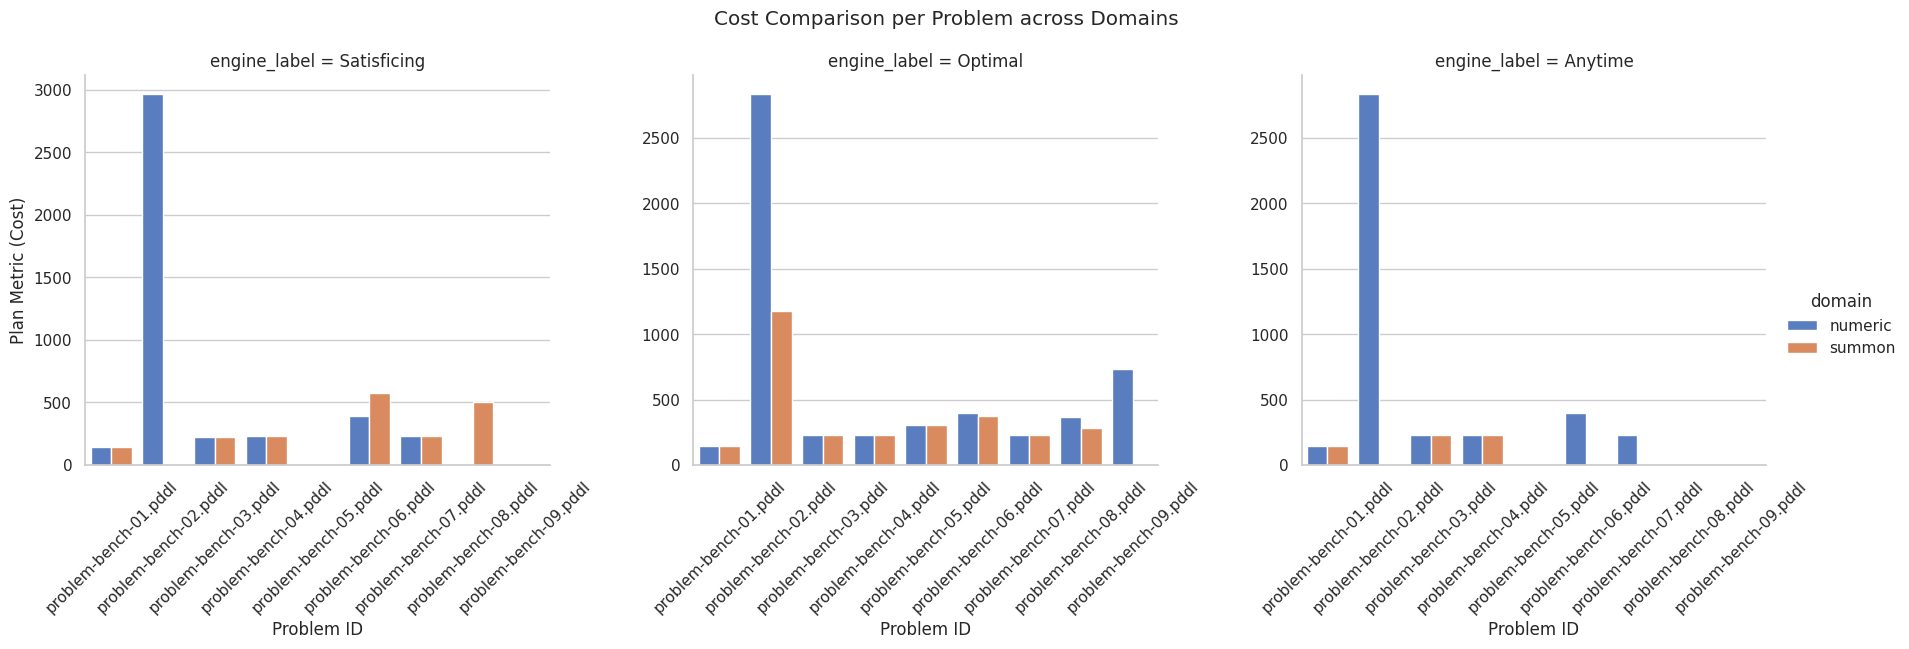
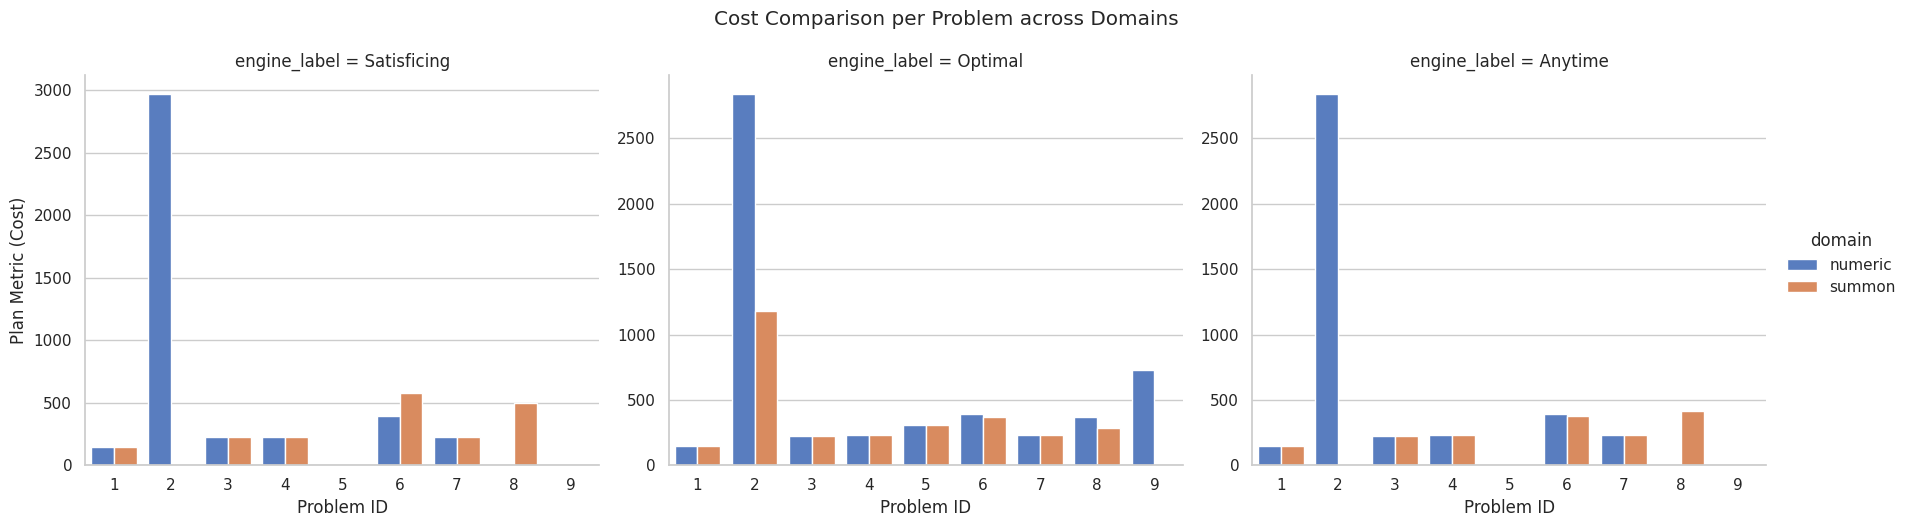
Enhance plots with problem labels and timeout handling
Added problem ID labels to scatter plots for plan quality and search effort. Improved data preprocessing to include TIMEOUT status for anytime planners, filtering out entries without a plan. Updated plots accordingly.

diff --git a/enhsp-plots.py b/enhsp-plots.py
@@ -30,7 +30,13 @@ def load_and_preprocess_data(numeric_file, summon_file):
         'PlanGenerationResultStatus.SOLVED_SATISFICING', 
         'PlanGenerationResultStatus.SOLVED_OPTIMALLY'
     ]
+    # also include timeout for anytime planners
+    solved_statuses.append('PlanGenerationResultStatus.TIMEOUT')
     df_solved = df[df['status'].isin(solved_statuses)].copy()
+    # now for all TIMEOUT entries, we need to ensure they have a plan, keep only those
+    df_solved = df_solved[~((df_solved['status'] == 'PlanGenerationResultStatus.TIMEOUT') & (df_solved['plan_length'] == 0))]
+    #replace problem names with shorter versions (just the number)
+    df_solved['problem'] = df_solved['problem'].str.extract('(\d+)').astype(int)
     
     return df, df_solved
 
@@ -60,10 +66,13 @@ def generate_plots(df, df_solved):
     plt.savefig('plots/cactus_runtime.png', bbox_inches='tight')
     plt.close()
 
-    # 3. Plan Quality Scatter Plot
-    df_pivot_metric = df_solved.pivot_table(index=['problem', 'engine_label'], columns='domain', values='metric').dropna()
+    # 3. Plan Quality Scatter Plot (Cost) with problem id labels
+    df_pivot_metric = df_solved.pivot_table(index=['problem', 'engine_label'], columns='domain', values='metric').dropna().reset_index()
     plt.figure(figsize=(8, 8))
     sns.scatterplot(data=df_pivot_metric, x='numeric', y='summon', hue='engine_label', s=100)
+    # Add problem id labels
+    for _, row in df_pivot_metric.iterrows():
+        plt.text(row['numeric'], row['summon'], str(row['problem']), fontsize=20, alpha=0.9)
     max_val = max(df_pivot_metric['numeric'].max(), df_pivot_metric['summon'].max())
     plt.plot([0, max_val], [0, max_val], 'r--', alpha=0.5, label='Equal Cost')
     plt.title('Plan Quality: Numeric vs. Summon (Metric Value)')
@@ -73,10 +82,13 @@ def generate_plots(df, df_solved):
     plt.savefig('plots/quality_comparison.png', bbox_inches='tight')
     plt.close()
 
-    # 4. Search Effort (Nodes Expanded)
-    df_pivot_nodes = df_solved.pivot_table(index=['problem', 'engine_label'], columns='domain', values='expanded_nodes').dropna()
+    # 4. Search Effort (Nodes Expanded) with problem id labels
+    df_pivot_nodes = df_solved.pivot_table(index=['problem', 'engine_label'], columns='domain', values='expanded_nodes').dropna().reset_index()
     plt.figure(figsize=(8, 8))
     sns.scatterplot(data=df_pivot_nodes, x='numeric', y='summon', hue='engine_label', s=100)
+    # Add problem id labels
+    for _, row in df_pivot_nodes.iterrows():
+        plt.text(row['numeric'], row['summon'], str(row['problem']), fontsize=20, alpha=0.9)
     max_val_nodes = max(df_pivot_nodes['numeric'].max(), df_pivot_nodes['summon'].max())
     plt.plot([1, max_val_nodes], [1, max_val_nodes], 'r--', alpha=0.5, label='Equal Nodes')
     plt.xscale('log')
@@ -101,7 +113,6 @@ def generate_plots(df, df_solved):
         aspect=1.2,
         sharey=False
     )
-    g.set_xticklabels(rotation=45)
     g.set_axis_labels("Problem ID", "Plan Metric (Cost)")
     g.fig.suptitle('Cost Comparison per Problem across Domains', y=1.05)
     plt.savefig('plots/cost_per_problem.png', bbox_inches='tight')
